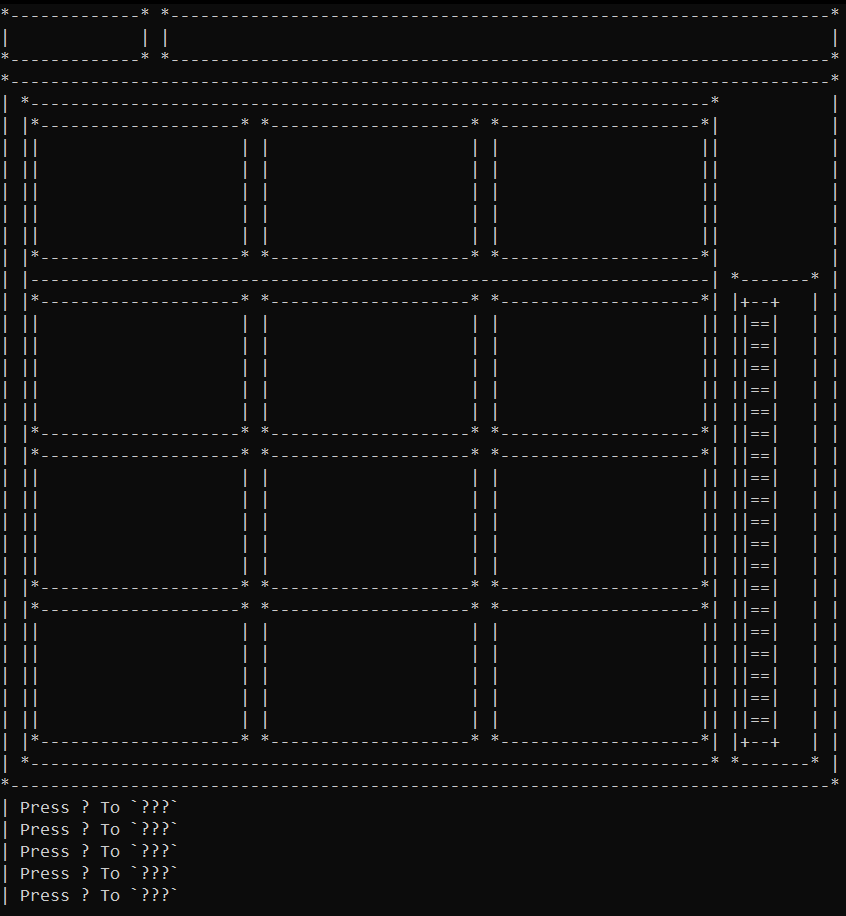
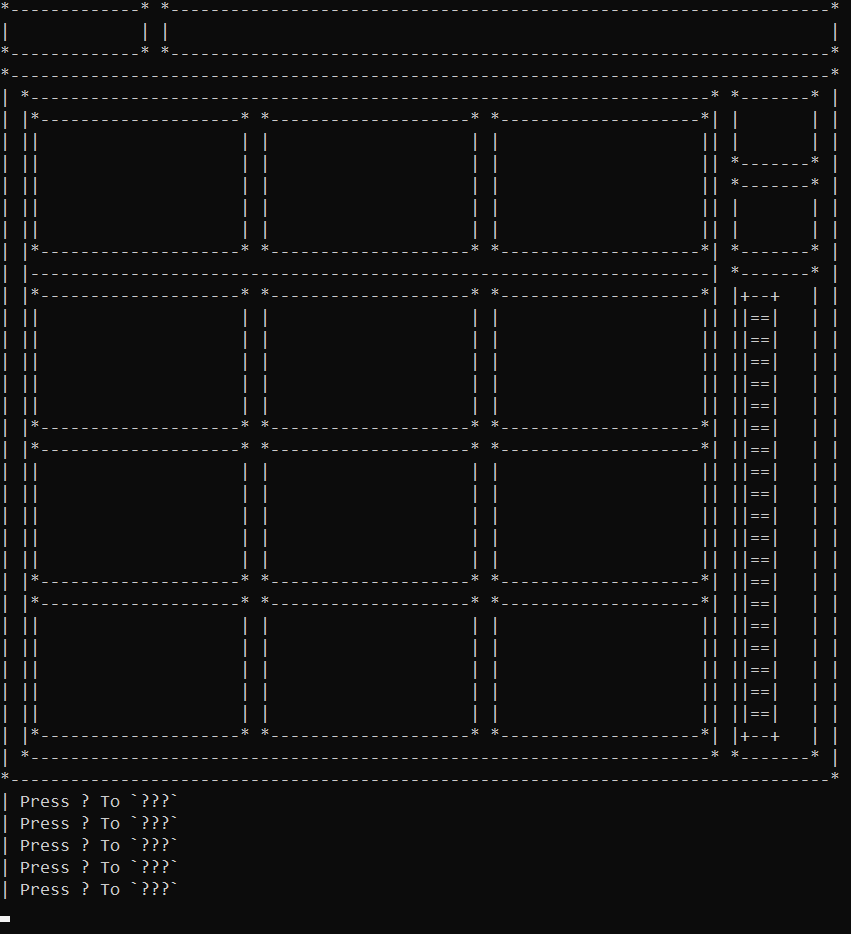
Update UI

diff --git a/src/Forms/clsMainForm.cs b/src/Forms/clsMainForm.cs
@@ -32,13 +32,22 @@ namespace SocialApp.Forms
 
         private void UpdateComponents()
         {
+            ResetPageContent();
+
             DisableContentGridsBorder();
 
             UpdateScrollBar();
             UpdateControlKeys();
             UpdateContentGrids();
+            UpdateRowCountText();
             UpdatePagesNavigation();
+            UpdateScrollingRangeText();
             UpdateSelectedContentGrid();
+        }
+
+        private void ResetPageContent()
+        {
+            NavigationController.GetCurrentPage().ResetContent();
         }
 
         private void UpdatePagesNavigation()
@@ -88,9 +97,7 @@ namespace SocialApp.Forms
 
         private void UpdateContentGrids()
         {
-            absBasePage currentPage = NavigationController.GetCurrentPage();
-            currentPage.ResetContent();
-            string[] content = currentPage.ContentStrings;
+            string[] content = NavigationController.GetCurrentPage().ContentStrings;
 
             for (int i = 0; i < tbPageContents.Length; i++)
             {
@@ -100,15 +107,40 @@ namespace SocialApp.Forms
 
         private void UpdateScrollBar()
         {
-            if (NavigationController.GetCurrentPage() is absScrollPage scrollPage)
+            if (NavigationController.GetCurrentPage() is absScrollPage page)
             {
-                vsbPageScrollBar.SetScrollBarInformation(scrollPage.GetRowCount(), absScrollPage.PAGE_ROWS_LIMIT, scrollPage.StartCursor);
-
+                vsbPageScrollBar.SetScrollBarInformation(page.GetRowCount(), absScrollPage.PAGE_ROWS_LIMIT, page.StartCursor);
                 gmScrollBarContainer.Visible = vsbPageScrollBar.IsScrollBarNeeded();
             }
             else
             {
                 gmScrollBarContainer.Visible = false;
+            }
+        }
+
+        private void UpdateScrollingRangeText()
+        {
+            if (NavigationController.GetCurrentPage() is absScrollPage page)
+            {
+                tbScrollingRange.Text = $"[{page.StartCursor + 1}]{clsCustomTags.LineBreak}[{page.StartCursor + absScrollPage.PAGE_ROWS_LIMIT}]";
+                tbScrollingRange.Visible = vsbPageScrollBar.IsScrollBarNeeded();
+            }
+            else
+            {
+                tbScrollingRange.Visible = false;
+            }
+        }
+
+        private void UpdateRowCountText()
+        {
+            if (NavigationController.GetCurrentPage() is absScrollPage page)
+            {
+                tbPageRowCount.Text = $"Rows{clsCustomTags.LineBreak}({page.GetRowCount()})";
+                tbPageRowCount.Visible = vsbPageScrollBar.IsScrollBarNeeded();
+            }
+            else
+            {
+                tbPageRowCount.Visible = false;
             }
         }
 

diff --git a/src/FormInitialization/clsMainForm.cs b/src/FormInitialization/clsMainForm.cs
@@ -12,6 +12,8 @@ namespace SocialApp.Forms
         private clsTextBoxGrid tbAppName { get; } = new clsTextBoxGrid(11, 1, new stPaddingInfo(2, 1, 2, 1));
         private clsTextBoxGrid tbPageNavigation { get; } = new clsTextBoxGrid(62, 1, new stPaddingInfo(3, 1, 3, 1));
         private clsTextBoxGrid tbControlKeys { get; } = new clsTextBoxGrid(50, 7, new stPaddingInfo(0, 0, 0, 0));
+        private clsTextBoxGrid tbScrollingRange { get; } = new clsTextBoxGrid(6, 2, new stPaddingInfo(2, 1, 1, 1));
+        private clsTextBoxGrid tbPageRowCount { get; } = new clsTextBoxGrid(6, 2, new stPaddingInfo(2, 1, 1, 1));
 
         private clsGridManager gmPageContentContainer { get; } = new clsGridManager(68, 29, new stPaddingInfo(1, 1, 1, 1));
         private clsGridManager gmHeaderBar { get; } = new clsGridManager(84, 3, new stPaddingInfo(0, 0, 0, 0));
@@ -61,6 +63,8 @@ namespace SocialApp.Forms
 
         private void InitializeComponentLazy()
         {
+            Thread.Sleep(2000);
+
             gmHeaderBar.AddGrid(new stGridInfo(tbAppName, new stPoint(0, 0)));
             Print([gmHeaderBar]);
 
@@ -91,6 +95,11 @@ namespace SocialApp.Forms
 
             vsbPageScrollBar.SetScrollBarInformation(0, 0, 0);
 
+            gmCenter.AddGrid(new stGridInfo(tbPageRowCount, new stPoint(72, 0)));
+            Print([gmHeaderBar, gmCenter]);
+
+            gmCenter.AddGrid(new stGridInfo(tbScrollingRange, new stPoint(72, 4)));
+            Print([gmHeaderBar, gmCenter]);
 
             gmCenter.AddGrid(new stGridInfo(gmScrollBarContainer, new stPoint(72, 8)));
             Print([gmHeaderBar, gmCenter]);
@@ -117,6 +126,8 @@ namespace SocialApp.Forms
             gmHeaderBar.AddGrid(new stGridInfo(tbAppName, new stPoint(0, 0)));
             gmHeaderBar.AddGrid(new stGridInfo(tbPageNavigation, new stPoint(16, 0)));
             gmPageContentContainer.AddGrid(new stGridInfo(Line, new stPoint(0, 7)));
+            gmCenter.AddGrid(new stGridInfo(tbPageRowCount, new stPoint(72, 0)));
+            gmCenter.AddGrid(new stGridInfo(tbScrollingRange, new stPoint(72, 4)));
             gmCenter.AddGrid(new stGridInfo(gmPageContentContainer, new stPoint(1, 0)));
             gmCenter.AddGrid(new stGridInfo(gmScrollBarContainer, new stPoint(72, 8)));
             gmScrollBarContainer.AddGrid(new stGridInfo(tbScrollBarText, new stPoint(5, 4)));

diff --git a/src/Pages/Abstractions/absBasePage.cs b/src/Pages/Abstractions/absBasePage.cs
@@ -8,9 +8,7 @@ namespace SocialApp.Pages.Abstractions
         public string[] ContentStrings { get; } = new string[12];
         public abstract enPermission AccessPermission { get; }
 
-
         public abstract void SetContent();
-
         public void ResetContent()
         {
             ClearContent();
@@ -24,5 +22,6 @@ namespace SocialApp.Pages.Abstractions
                 ContentStrings[i] = "";
             }
         }
+
     }
 }

diff --git a/src/Pages/TestPage.cs b/src/Pages/TestPage.cs
@@ -30,7 +30,7 @@ namespace SocialApp.Pages
 
         public void Execute()
         {
-            this.Rows.Add(new stPageRow("Row Number: " + Rows.Count));
+            this.Rows.Add(new stPageRow("Row Number: " + (Rows.Count + 1)));
             this.ResetCursors();
         }
     }
